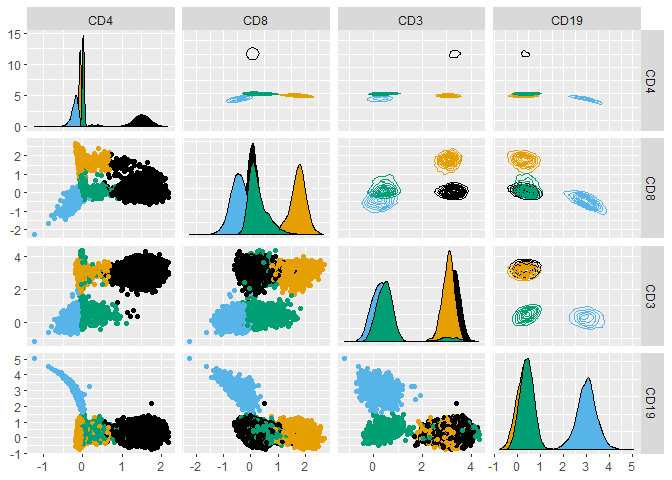
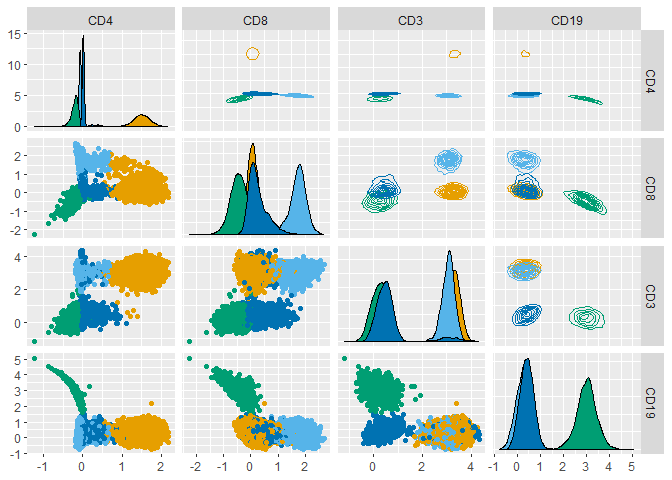
README

diff --git a/README.md b/README.md
@@ -98,8 +98,8 @@ hfd1_mustlink <- mustlinkMix::mustlink(
 )
 ```
 
-    ## 14:59:15  E-Step Number: 10,  Log-likelihood: -25064.87475
-    ## ...EM converged at 2024-05-08 14:59:15.991651
+    ## 16:50:25  E-Step Number: 10,  Log-likelihood: -25064.87475
+    ## ...EM converged at 2024-05-08 16:50:25.825884
 
 ## Plot the data, coloured according to the mustlink labels.
 
@@ -107,10 +107,10 @@ hfd1_mustlink <- mustlinkMix::mustlink(
 GGally::ggpairs(hfd1,
   progress = FALSE,
   upper = list(continuous = "density"),
-  ggplot2::aes(colour = as.factor(1 + hfd1_mustlink$clust_labels))
+  ggplot2::aes(colour = as.factor(hfd1_mustlink$clust_labels))
 ) +
-  ggokabeito::scale_colour_okabe_ito(order = c(9, 1, 2, 3, 5, 6)) +
-  ggokabeito::scale_fill_okabe_ito(order = c(9, 1, 2, 3, 5, 6))
+  ggokabeito::scale_colour_okabe_ito(order = c(1, 2, 3, 5, 6)) +
+  ggokabeito::scale_fill_okabe_ito(order = c(1, 2, 3, 5, 6))
 ```
 
 ![](README_files/figure-gfm/ggpairs_mustlink-1.png)<!-- -->
